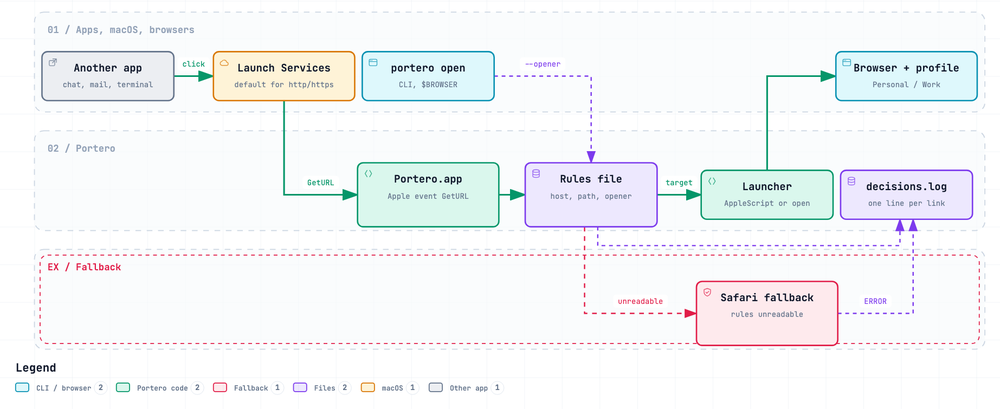
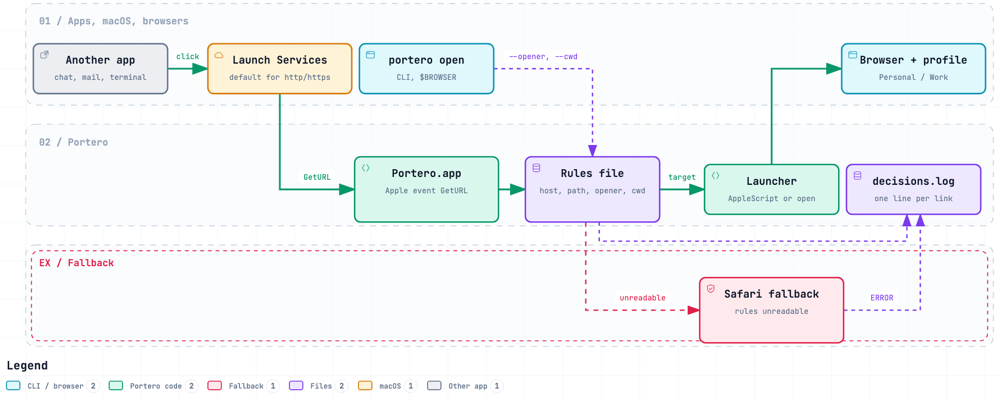
docs: how-it-works diagram shows the cwd match (DEV-36)
Agent-Session: claude-code/67d30ec0-0d16-4723-8e96-dc4f1d396110

diff --git a/docs/diagrams/how-it-works.html b/docs/diagrams/how-it-works.html
@@ -5173,7 +5173,7 @@ OTHER DEALINGS IN THE FONT SOFTWARE.
 
 
         <!-- Edge paths -->
-        <path data-edge-from="cli" data-edge-to="rules" data-edge-label="--opener" data-edge-key="0" data-edge-id="cli-match" data-composition-points="528,120;631,120;631,212" d="M 528 120 L 631 120 L 631 212" class="a-dashed" stroke-width="1.4" marker-end="url(#arrowhead-dashed)"/>
+        <path data-edge-from="cli" data-edge-to="rules" data-edge-label="--opener, --cwd" data-edge-key="0" data-edge-id="cli-match" data-composition-points="528,120;631,120;631,212" d="M 528 120 L 631 120 L 631 212" class="a-dashed" stroke-width="1.4" marker-end="url(#arrowhead-dashed)"/>
         <path data-edge-from="app" data-edge-to="ls" data-edge-label="click" data-edge-key="1" data-edge-id="click" data-composition-points="188,120;230,120" d="M 188 120 L 230 120" class="a-emphasis" stroke-width="1.8" marker-end="url(#arrowhead-emphasis)"/>
         <path data-edge-from="safari" data-edge-to="log" data-edge-label="ERROR" data-edge-key="2" data-edge-id="error-line" data-composition-points="892.8,372;972.8,372;972.8,272" d="M 892.8 372 L 972.8 372 L 972.8 272" class="a-dashed" stroke-width="1.4" marker-end="url(#arrowhead-dashed)"/>
         <path data-edge-from="ls" data-edge-to="handler" data-edge-label="GetURL" data-edge-key="3" data-edge-id="geturl" data-composition-points="305,146;305,246;383,246" d="M 305 146 L 305 246 L 383 246" class="a-emphasis" stroke-width="1.8" marker-end="url(#arrowhead-emphasis)"/>
@@ -5247,8 +5247,8 @@ OTHER DEALINGS IN THE FONT SOFTWARE.
         <text data-detail="fine" x="458" y="268" class="t-backend" font-size="7" text-anchor="middle">opener from sender pid</text>
         </g>
 
-        <g id="node-rules" data-node-id="rules" data-node-label="Rules file" tabindex="0" role="button" aria-label="Focus Rules file, host, path, opener, Portero" aria-pressed="false" data-node-kind="database" data-node-sublabel="host, path, opener" data-node-tag="first match wins" data-node-context="Portero">
-          <title>Rules file · host, path, opener · Portero · first match wins</title>
+        <g id="node-rules" data-node-id="rules" data-node-label="Rules file" tabindex="0" role="button" aria-label="Focus Rules file, host, path, opener, cwd, Portero" aria-pressed="false" data-node-kind="database" data-node-sublabel="host, path, opener, cwd" data-node-tag="first match wins" data-node-context="Portero">
+          <title>Rules file · host, path, opener, cwd · Portero · first match wins</title>
           <rect x="561" y="212" width="140" height="68" rx="6" class="c-mask"/>
           <rect x="561" y="212" width="140" height="68" rx="6" class="c-database" stroke-width="1.5"/>
           <g aria-hidden="true" data-semantic-sigil="database" class="semantic-sigil s-database" transform="translate(567 218) scale(0.6875)">
@@ -5256,7 +5256,7 @@ OTHER DEALINGS IN THE FONT SOFTWARE.
             <path d="M3 4v8c0 1.1 2.2 2 5 2s5-.9 5-2V4M3 8c0 1.1 2.2 2 5 2s5-.9 5-2"/>
           </g>
           <text data-node-label="" data-detail-anchor="" x="631" y="233" class="t-primary" font-size="11" font-weight="600" text-anchor="middle">Rules file</text>
-          <text data-detail="context" x="631" y="250" class="t-muted" font-size="8" text-anchor="middle">host, path, opener</text>
+          <text data-detail="context" x="631" y="250" class="t-muted" font-size="8" text-anchor="middle">host, path, opener, cwd</text>
         <text data-detail="fine" x="631" y="268" class="t-database" font-size="7" text-anchor="middle">first match wins</text>
         </g>
 
@@ -5297,9 +5297,9 @@ OTHER DEALINGS IN THE FONT SOFTWARE.
         </g>
 
         <!-- Edge labels -->
-        <g data-detail="context" data-edge-from="cli" data-edge-to="rules" data-edge-label="--opener" data-edge-key="0" data-edge-id="cli-match">
-          <rect x="555.3" y="100" width="48.4" height="14" rx="3" class="c-mask"/>
-          <text x="579.5" y="110" class="t-database" font-size="8" text-anchor="middle">--opener</text>
+        <g data-detail="context" data-edge-from="cli" data-edge-to="rules" data-edge-label="--opener, --cwd" data-edge-key="0" data-edge-id="cli-match">
+          <rect x="538.5" y="100" width="82" height="14" rx="3" class="c-mask"/>
+          <text x="579.5" y="110" class="t-database" font-size="8" text-anchor="middle">--opener, --cwd</text>
         </g>
         <g data-detail="context" data-edge-from="app" data-edge-to="ls" data-edge-label="click" data-edge-key="1" data-edge-id="click">
           <rect x="192" y="100" width="34" height="14" rx="3" class="c-mask"/>
@@ -5546,7 +5546,7 @@ OTHER DEALINGS IN THE FONT SOFTWARE.
         </div>
         <ul>
           <li>&bull; $PORTERO_RULES, else rules: in config.yaml, else ~/.config/portero/rules.yaml</li>
-          <li>&bull; Match host (wildcards), path prefix, opener bundle id</li>
+          <li>&bull; Match host (wildcards), path prefix, opener bundle id, cwd (CLI only)</li>
           <li>&bull; First matching rule wins, otherwise default</li>
         </ul>
       </div>
